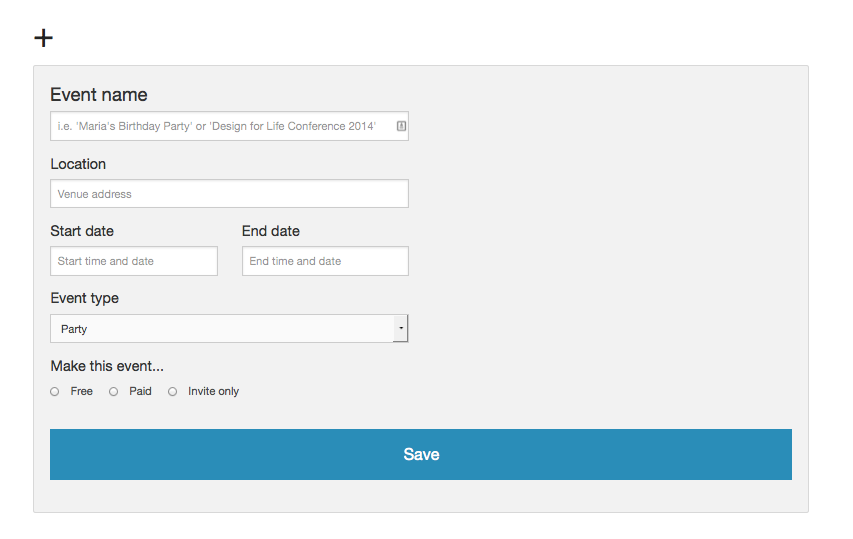
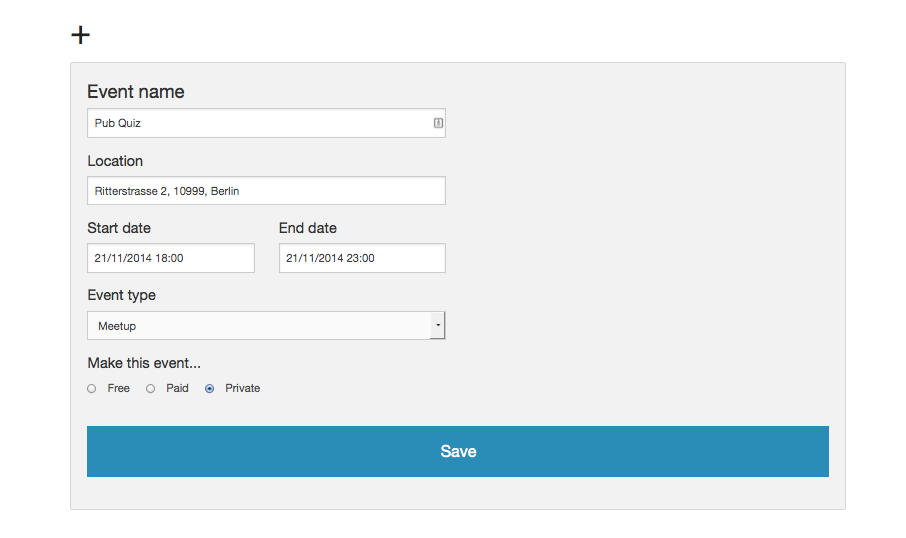
add image

diff --git a/openaire.html b/openaire.html
@@ -18,91 +18,80 @@
     
     <div class="row">
       <div class="large-12 columns">
-      
-        <div class="hide-for-small">
-          <div id="featured">
-            <a href="openaire.html"><h1>Openaire</h1></a>
-          </div>
-        </div>
-        
-        <div class="row">
-          <div class="small-12 show-for-small">
-            <br>
-            <a href="openaire.html"><h1>Openaire</h1></a>
-          </div>
-        </div>
+        <a href="openaire.html"><h1>Openaire</h1></a>
       </div>
     </div>
 
+    <br>
+    <br>
 
-    
     <div class="row">
+      
       <div class="large-12 columns">
-        <div class="hide-for-small">
-
-          <br>
-          <br>
           
-          <div class="large-8 small-8 columns">
+          <div class="large-8 small-8 columns" id="claim">
             <h3>Plan, produce, promote & enjoy events.</h3>
-            <h4>Openaire is an open-source application to organise, produce, promote and enjoy events; made by and for people that value goals over tools and like to keep things simple.</h4>
+            <h4>Openaire is an open application made with love for people who value goals over tools & like to keep things simple.</h4>
           </div>
-
-
 
           <div class="large-3 small-3 columns">
             <a class="large primary button expand" href="new_event.html">Start</a>
             <a class="large secondary button expand" href="about.html">Learn more</a>
           </div>
-
+        
         </div>
+      
       </div>
+    
     </div>
 
     <br>
-
     <br>
-    <br> 
 
     <div class="row">
-    <div class="large-12 columns">
-      <h2>Who is it for?</h2>
-      <br>
-      <div class="row">
 
-        <div class="large-3 small-6 columns">
-          <h2>Organisers</h2>
-          <h6 class="panel">Organise, produce and promote your event. Openaire lets you collaborate with your colleagues, reach your target audience, sell tickets and organise all your lists. All so that you can call your event a Success.</h6>
-        </div>
+      <div class="large-12 columns">
+        
+        <h2>Who is it for?</h2>
+        
+        <div class="row">
 
-        <div class="large-3 small-6 columns">
-          <h2>Sponsors</h2>
-          <h6 class="panel">Learn about the events on your field and offer support to those that reach their target audiences. Offering a sponsorship or making a donation is easy to anyone using Openaire thanks to integrated payments and invoicing.</h6>
-        </div>
+          <div class="large-3 small-6 columns">
+            <h2>Organisers</h2>
+            <h6 class="panel">Organise, produce and promote your event. Openaire lets you collaborate with your colleagues, reach your target audience, sell tickets and organise all your lists. All so that you can call your event a Success.</h6>
+          </div>
+
+          <div class="large-3 small-6 columns">
+            <h2>Sponsors</h2>
+            <h6 class="panel">Learn about the events on your field and offer support to those that reach their target audiences. Offering a sponsorship or making a donation is easy to anyone using Openaire thanks to integrated payments and invoicing.</h6>
+          </div>
  
-        <div class="large-3 small-6 columns">
-          <h2>Attendees</h2>
-          <h6 class="panel">Receive alerts for events related to topics of your interest and buy discounted tickets for events. Use Openaire while at events to see changes in the agenda, rate interventions and connect with other attendees.</h6>
-        </div>
+          <div class="large-3 small-6 columns">
+            <h2>Attendees</h2>
+            <h6 class="panel">Receive alerts for events related to topics of your interest and buy discounted tickets for events. Use Openaire while at events to see changes in the agenda, rate interventions and connect with other attendees.</h6>
+          </div>
  
-        <div class="large-3 small-6 columns">
-          <h2>Presenters</h2>
-          <h6 class="panel">Are you a speaker? A panelist? A dj? Then you are the soul of the party; and you need a tool! Use your presenter profile to find calls for talks, submit your proposals and see how the audience is rating your interventions.</h6>
-        </div>
+          <div class="large-3 small-6 columns">
+            <h2>Presenters</h2>
+            <h6 class="panel">Are you a speaker? A panelist? A dj? Then you are the soul of the party; and you need a tool! Use your presenter profile to find calls for talks, submit your proposals and see how the audience is rating your interventions.</h6>
+          </div>
  
-      </div>
+        </div>
 
-  <br>
-  <br>
 
-      <div class="row">
-    <div class="large-12 columns">
-      <h2>How does it work?</h2>
-      <br>
+        <br>
+        <br>
 
       <div class="row">
+        <div class="large-12 small-6 columns">
+          
+        <h2>How does it work?</h2>
+          
+          <br>
 
-        <div class="large-3 small-6 columns">
+            <div class="row">
+
+              <div class="large-3 small-6 columns">
           <h1>+</h1>
           <h6 class="panel">Add your event to Openaire - just add a title, dates and address to get started. If you choose to create a public event, we will add it to our database and tell potential attendees, presenters and sponsors about it.</h6>
         </div>
@@ -125,7 +114,7 @@
       </div>
 
       <div class="row">
-        <img src="images/newEvent.jpg" width="100%"></img>
+        <img src="images/newEvent.png" width="100%"></img>
       </div>
     
     </div>
@@ -136,27 +125,27 @@
 
      
 <div class="row">
-    <div class="large-12 columns">
+    <div class="large-12 small-6 columns">
       <h2>Why Openaire?</h2>
       <br>
       <div class="row">
 
-        <div class="large-3 small-6 columns">
+        <div class="large-3 small-12 columns">
           <h2>Design</h2>
           <h6 class="panel">We leave design for the designers. Openaire is a minimalist app that fits all event types - black and white never goes off fashion. And if your event has too much of a personality, customize your design for free.</h6>
         </div>
 
-        <div class="large-3 small-6 columns">
+        <div class="large-3 small-12 columns">
           <h2>Flexibility</h2>
           <h6 class="panel">Learn about the events on your field and offer support to those that reach their target audiences. Offering a sponsorship or making a donation is easy to anyone using Openaire thanks to integrated payments, and all the paperwork you need to justify your expenses will be ready in 3, 2, 1.</h6>
         </div>
  
-        <div class="large-3 small-6 columns">
+        <div class="large-3 small-12 columns">
           <h2>Efficiency</h2>
           <h6 class="panel">Receive alerts for events related to topics of your interest and buy discounted tickets for events. Use Openaire while at events to see changes in the agenda, rate interventions and connect with other attendees.</h6>
         </div>
  
-        <div class="large-3 small-6 columns">
+        <div class="large-3 small-12 columns">
           <h2>Community</h2>
           <h6 class="panel">Find calls for talks, submit your proposals and see how the audience is rating your interventions...right from the stage.</h6>
         </div>

diff --git a/new_event.html b/new_event.html
@@ -94,7 +94,7 @@
                     <input type="radio" name="privacy" value="paid" id="privacyPaid">
                   <label for="privacyPaid">Paid</label>
                     <input type="radio" name="privacy" value="invite" id="privacyInvite">
-                  <label for="privacyInvite">Invite only</label>
+                  <label for="privacyPrivate">Private</label>
                 </div>
               </div>
 
